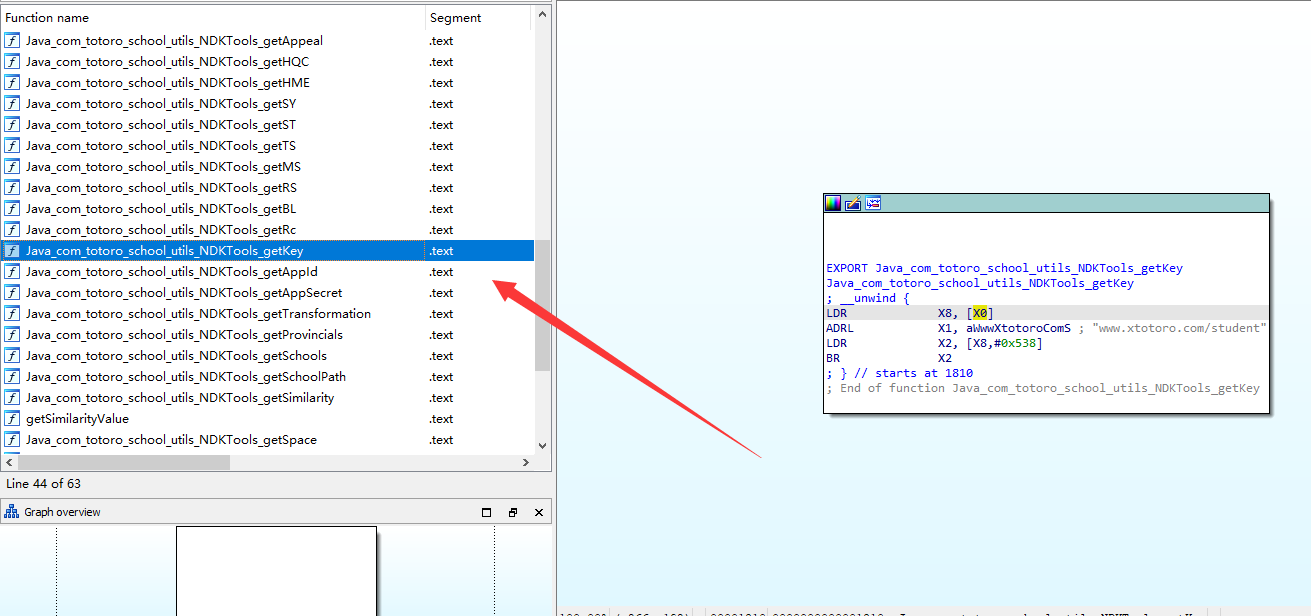
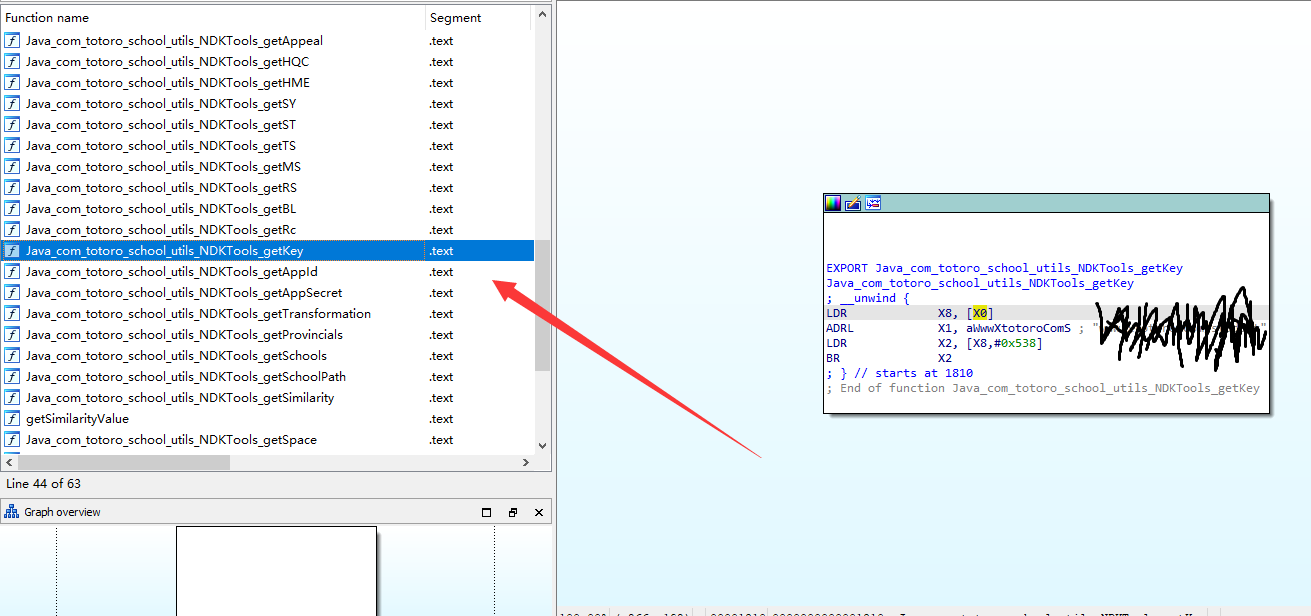
Site updated: 2021-03-28 20:40:16

Changed region(s): [[0.8238, 0.4627, 0.9764, 0.586]]

diff --git a/2021/03/24/如何优雅地破解龙猫校园/index.html b/2021/03/24/如何优雅地破解龙猫校园/index.html
@@ -171,7 +171,7 @@
 <p><img src="/images/longmaoxiaoyuan/ida.jpg" alt="/images/longmaoxiaoyuan/ida.jpg"></p>
 <p>很快找到了相关函数  F5反编译一气呵成 </p>
 <p><img src="/images/longmaoxiaoyuan/Untitled%2011.png" alt="/images/longmaoxiaoyuan/Untitled%2011.png"></p>
-<p>可见f10683a变量的值是 <a target="_blank" rel="noopener" href="http://www.xtotoro.com/student">www.xtotoro.com/student</a></p>
+<p>可见f10683a变量的值是 ***********</p>
 <p>（but这个不是密钥）同时在其他函数中得到了其AES加密的具体类型 —&gt;AES/ECB/ISO10126Padding</p>
 <p>继续回到jadx 分析可知 str2要经过m11870方法 才得到相应的密钥</p>
 <figure class="highlight java"><table><tr><td class="gutter"><pre><span class="line">1</span><br><span class="line">2</span><br><span class="line">3</span><br><span class="line">4</span><br><span class="line">5</span><br><span class="line">6</span><br><span class="line">7</span><br><span class="line">8</span><br><span class="line">9</span><br><span class="line">10</span><br><span class="line">11</span><br><span class="line">12</span><br><span class="line">13</span><br><span class="line">14</span><br><span class="line">15</span><br><span class="line">16</span><br><span class="line">17</span><br><span class="line">18</span><br><span class="line">19</span><br><span class="line">20</span><br><span class="line">21</span><br><span class="line">22</span><br><span class="line">23</span><br><span class="line">24</span><br><span class="line">25</span><br><span class="line">26</span><br><span class="line">27</span><br><span class="line">28</span><br></pre></td><td class="code"><pre><span class="line"><span class="function"><span class="keyword">public</span> <span class="keyword">static</span> String <span class="title">m11872b</span><span class="params">(String str, String str2)</span> </span>&#123;</span><br><span class="line">        <span class="keyword">try</span> &#123;</span><br><span class="line">            <span class="keyword">if</span> (str2.isEmpty()) &#123;</span><br><span class="line">                str2 = f10683a;</span><br><span class="line">            &#125;</span><br><span class="line">            SecretKeySpec secretKeySpec = <span class="keyword">new</span> SecretKeySpec(m11870a(str2).getBytes(<span class="string">&quot;ASCII&quot;</span>), <span class="string">&quot;AES&quot;</span>);</span><br><span class="line">            Cipher instance = Cipher.getInstance(NDKTools.getTransformation());</span><br><span class="line">            instance.init(<span class="number">2</span>, secretKeySpec);</span><br><span class="line">            <span class="keyword">return</span> <span class="keyword">new</span> String(instance.doFinal(Base64.decode(str, <span class="number">0</span>)), <span class="string">&quot;utf-8&quot;</span>);</span><br><span class="line">        &#125; <span class="keyword">catch</span> (Exception e) &#123;</span><br><span class="line">            e.printStackTrace();</span><br><span class="line">            <span class="keyword">return</span> <span class="keyword">null</span>;</span><br><span class="line">        &#125;</span><br><span class="line">    &#125;</span><br><span class="line"></span><br><span class="line">    <span class="comment">/* renamed from: a */</span></span><br><span class="line">    <span class="function"><span class="keyword">public</span> <span class="keyword">static</span> String <span class="title">m11870a</span><span class="params">(String str)</span> </span>&#123;</span><br><span class="line">        <span class="keyword">if</span> (str.length() &gt; <span class="number">16</span>) &#123;</span><br><span class="line">            <span class="keyword">return</span> str.substring(<span class="number">0</span>, <span class="number">16</span>);</span><br><span class="line">        &#125;</span><br><span class="line">        <span class="keyword">if</span> (str.length() &gt;= <span class="number">16</span>) &#123;</span><br><span class="line">            <span class="keyword">return</span> str;</span><br><span class="line">        &#125;</span><br><span class="line">        <span class="keyword">for</span> (<span class="keyword">int</span> length = str.length() - <span class="number">1</span>; length &lt; <span class="number">15</span>; length++) &#123;</span><br><span class="line">            str = str + <span class="string">&quot;\\000&quot;</span>;</span><br><span class="line">        &#125;</span><br><span class="line">        <span class="keyword">return</span> str;</span><br><span class="line">    &#125;</span><br></pre></td></tr></table></figure>
@@ -195,7 +195,7 @@
 <p>下显然这些在NewRunRegRequestModel类里会用到 于是查看该方法的用例</p>
 <p><strong>一眼就看到了那熟悉的函数！果断跟进！</strong></p>
 <p><img src="/images/longmaoxiaoyuan/Untitled%2016.png" alt="/images/longmaoxiaoyuan/Untitled%2016.png"></p>
-<p>这个时候会发现有两处加密 而且密钥不同  一个密钥为空（最终变为<a target="_blank" rel="noopener" href="http://www.xtotoro.com/%EF%BC%89">www.xtotoro.com/）</a> 还有个密钥为B 再通过上面sb.append有schoolid sncode还有个commonconstant.f10416d就可以确定这个是第一个参数param_add 同时 commonconstant.f10416d 也可以确定为runcode  再看第二个参数内容就应该是a密钥是b了</p>
+<p>这个时候会发现有两处加密 而且密钥不同  一个密钥为空（最终变为动态链接库中的密钥） 还有个密钥为B 再通过上面sb.append有schoolid sncode还有个commonconstant.f10416d就可以确定这个是第一个参数param_add 同时 commonconstant.f10416d 也可以确定为runcode  再看第二个参数内容就应该是a密钥是b了</p>
 <p>内容不用关注 直接看 b  可见b是一个东西解密得到的（m11872b为解密函数）分析可知解密的内容是commonconstant.f10416d 即runcode 而密钥则是从</p>
 <p>c2818.m11940b（）方法中获取  继续跟进该方法 定位到关键函数处</p>
 <figure class="highlight java"><table><tr><td class="gutter"><pre><span class="line">1</span><br><span class="line">2</span><br><span class="line">3</span><br><span class="line">4</span><br><span class="line">5</span><br><span class="line">6</span><br><span class="line">7</span><br><span class="line">8</span><br><span class="line">9</span><br><span class="line">10</span><br><span class="line">11</span><br><span class="line">12</span><br><span class="line">13</span><br><span class="line">14</span><br><span class="line">15</span><br><span class="line">16</span><br><span class="line">17</span><br><span class="line">18</span><br><span class="line">19</span><br></pre></td><td class="code"><pre><span class="line"><span class="function"><span class="keyword">public</span> <span class="keyword">static</span> Object <span class="title">m11940b</span><span class="params">(Context context, String str, Object obj)</span> </span>&#123;</span><br><span class="line">        SharedPreferences sharedPreferences = context.getSharedPreferences(<span class="string">&quot;totoro_school_share_data&quot;</span>, <span class="number">0</span>);</span><br><span class="line">        <span class="keyword">if</span> (obj <span class="keyword">instanceof</span> String) &#123;</span><br><span class="line">            <span class="keyword">return</span> sharedPreferences.getString(str, (String) obj);</span><br><span class="line">        &#125;</span><br><span class="line">        <span class="keyword">if</span> (obj <span class="keyword">instanceof</span> Integer) &#123;</span><br><span class="line">            <span class="keyword">return</span> Integer.valueOf(sharedPreferences.getInt(str, ((Integer) obj).intValue()));</span><br><span class="line">        &#125;</span><br><span class="line">        <span class="keyword">if</span> (obj <span class="keyword">instanceof</span> Boolean) &#123;</span><br><span class="line">            <span class="keyword">return</span> Boolean.valueOf(sharedPreferences.getBoolean(str, ((Boolean) obj).booleanValue()));</span><br><span class="line">        &#125;</span><br><span class="line">        <span class="keyword">if</span> (obj <span class="keyword">instanceof</span> Float) &#123;</span><br><span class="line">            <span class="keyword">return</span> Float.valueOf(sharedPreferences.getFloat(str, ((Float) obj).floatValue()));</span><br><span class="line">        &#125;</span><br><span class="line">        <span class="keyword">if</span> (obj <span class="keyword">instanceof</span> Long) &#123;</span><br><span class="line">            <span class="keyword">return</span> Long.valueOf(sharedPreferences.getLong(str, ((Long) obj).longValue()));</span><br><span class="line">        &#125;</span><br><span class="line">        <span class="keyword">return</span> <span class="keyword">null</span>;</span><br><span class="line">    &#125;</span><br></pre></td></tr></table></figure>

diff --git a/index.html b/index.html
@@ -243,7 +243,7 @@
 <p><img src="/images/longmaoxiaoyuan/ida.jpg" alt="/images/longmaoxiaoyuan/ida.jpg"></p>
 <p>很快找到了相关函数  F5反编译一气呵成 </p>
 <p><img src="/images/longmaoxiaoyuan/Untitled%2011.png" alt="/images/longmaoxiaoyuan/Untitled%2011.png"></p>
-<p>可见f10683a变量的值是 <a target="_blank" rel="noopener" href="http://www.xtotoro.com/student">www.xtotoro.com/student</a></p>
+<p>可见f10683a变量的值是 ***********</p>
 <p>（but这个不是密钥）同时在其他函数中得到了其AES加密的具体类型 —&gt;AES/ECB/ISO10126Padding</p>
 <p>继续回到jadx 分析可知 str2要经过m11870方法 才得到相应的密钥</p>
 <figure class="highlight java"><table><tr><td class="gutter"><pre><span class="line">1</span><br><span class="line">2</span><br><span class="line">3</span><br><span class="line">4</span><br><span class="line">5</span><br><span class="line">6</span><br><span class="line">7</span><br><span class="line">8</span><br><span class="line">9</span><br><span class="line">10</span><br><span class="line">11</span><br><span class="line">12</span><br><span class="line">13</span><br><span class="line">14</span><br><span class="line">15</span><br><span class="line">16</span><br><span class="line">17</span><br><span class="line">18</span><br><span class="line">19</span><br><span class="line">20</span><br><span class="line">21</span><br><span class="line">22</span><br><span class="line">23</span><br><span class="line">24</span><br><span class="line">25</span><br><span class="line">26</span><br><span class="line">27</span><br><span class="line">28</span><br></pre></td><td class="code"><pre><span class="line"><span class="function"><span class="keyword">public</span> <span class="keyword">static</span> String <span class="title">m11872b</span><span class="params">(String str, String str2)</span> </span>&#123;</span><br><span class="line">        <span class="keyword">try</span> &#123;</span><br><span class="line">            <span class="keyword">if</span> (str2.isEmpty()) &#123;</span><br><span class="line">                str2 = f10683a;</span><br><span class="line">            &#125;</span><br><span class="line">            SecretKeySpec secretKeySpec = <span class="keyword">new</span> SecretKeySpec(m11870a(str2).getBytes(<span class="string">&quot;ASCII&quot;</span>), <span class="string">&quot;AES&quot;</span>);</span><br><span class="line">            Cipher instance = Cipher.getInstance(NDKTools.getTransformation());</span><br><span class="line">            instance.init(<span class="number">2</span>, secretKeySpec);</span><br><span class="line">            <span class="keyword">return</span> <span class="keyword">new</span> String(instance.doFinal(Base64.decode(str, <span class="number">0</span>)), <span class="string">&quot;utf-8&quot;</span>);</span><br><span class="line">        &#125; <span class="keyword">catch</span> (Exception e) &#123;</span><br><span class="line">            e.printStackTrace();</span><br><span class="line">            <span class="keyword">return</span> <span class="keyword">null</span>;</span><br><span class="line">        &#125;</span><br><span class="line">    &#125;</span><br><span class="line"></span><br><span class="line">    <span class="comment">/* renamed from: a */</span></span><br><span class="line">    <span class="function"><span class="keyword">public</span> <span class="keyword">static</span> String <span class="title">m11870a</span><span class="params">(String str)</span> </span>&#123;</span><br><span class="line">        <span class="keyword">if</span> (str.length() &gt; <span class="number">16</span>) &#123;</span><br><span class="line">            <span class="keyword">return</span> str.substring(<span class="number">0</span>, <span class="number">16</span>);</span><br><span class="line">        &#125;</span><br><span class="line">        <span class="keyword">if</span> (str.length() &gt;= <span class="number">16</span>) &#123;</span><br><span class="line">            <span class="keyword">return</span> str;</span><br><span class="line">        &#125;</span><br><span class="line">        <span class="keyword">for</span> (<span class="keyword">int</span> length = str.length() - <span class="number">1</span>; length &lt; <span class="number">15</span>; length++) &#123;</span><br><span class="line">            str = str + <span class="string">&quot;\\000&quot;</span>;</span><br><span class="line">        &#125;</span><br><span class="line">        <span class="keyword">return</span> str;</span><br><span class="line">    &#125;</span><br></pre></td></tr></table></figure>
@@ -267,7 +267,7 @@
 <p>下显然这些在NewRunRegRequestModel类里会用到 于是查看该方法的用例</p>
 <p><strong>一眼就看到了那熟悉的函数！果断跟进！</strong></p>
 <p><img src="/images/longmaoxiaoyuan/Untitled%2016.png" alt="/images/longmaoxiaoyuan/Untitled%2016.png"></p>
-<p>这个时候会发现有两处加密 而且密钥不同  一个密钥为空（最终变为<a target="_blank" rel="noopener" href="http://www.xtotoro.com/%EF%BC%89">www.xtotoro.com/）</a> 还有个密钥为B 再通过上面sb.append有schoolid sncode还有个commonconstant.f10416d就可以确定这个是第一个参数param_add 同时 commonconstant.f10416d 也可以确定为runcode  再看第二个参数内容就应该是a密钥是b了</p>
+<p>这个时候会发现有两处加密 而且密钥不同  一个密钥为空（最终变为动态链接库中的密钥） 还有个密钥为B 再通过上面sb.append有schoolid sncode还有个commonconstant.f10416d就可以确定这个是第一个参数param_add 同时 commonconstant.f10416d 也可以确定为runcode  再看第二个参数内容就应该是a密钥是b了</p>
 <p>内容不用关注 直接看 b  可见b是一个东西解密得到的（m11872b为解密函数）分析可知解密的内容是commonconstant.f10416d 即runcode 而密钥则是从</p>
 <p>c2818.m11940b（）方法中获取  继续跟进该方法 定位到关键函数处</p>
 <figure class="highlight java"><table><tr><td class="gutter"><pre><span class="line">1</span><br><span class="line">2</span><br><span class="line">3</span><br><span class="line">4</span><br><span class="line">5</span><br><span class="line">6</span><br><span class="line">7</span><br><span class="line">8</span><br><span class="line">9</span><br><span class="line">10</span><br><span class="line">11</span><br><span class="line">12</span><br><span class="line">13</span><br><span class="line">14</span><br><span class="line">15</span><br><span class="line">16</span><br><span class="line">17</span><br><span class="line">18</span><br><span class="line">19</span><br></pre></td><td class="code"><pre><span class="line"><span class="function"><span class="keyword">public</span> <span class="keyword">static</span> Object <span class="title">m11940b</span><span class="params">(Context context, String str, Object obj)</span> </span>&#123;</span><br><span class="line">        SharedPreferences sharedPreferences = context.getSharedPreferences(<span class="string">&quot;totoro_school_share_data&quot;</span>, <span class="number">0</span>);</span><br><span class="line">        <span class="keyword">if</span> (obj <span class="keyword">instanceof</span> String) &#123;</span><br><span class="line">            <span class="keyword">return</span> sharedPreferences.getString(str, (String) obj);</span><br><span class="line">        &#125;</span><br><span class="line">        <span class="keyword">if</span> (obj <span class="keyword">instanceof</span> Integer) &#123;</span><br><span class="line">            <span class="keyword">return</span> Integer.valueOf(sharedPreferences.getInt(str, ((Integer) obj).intValue()));</span><br><span class="line">        &#125;</span><br><span class="line">        <span class="keyword">if</span> (obj <span class="keyword">instanceof</span> Boolean) &#123;</span><br><span class="line">            <span class="keyword">return</span> Boolean.valueOf(sharedPreferences.getBoolean(str, ((Boolean) obj).booleanValue()));</span><br><span class="line">        &#125;</span><br><span class="line">        <span class="keyword">if</span> (obj <span class="keyword">instanceof</span> Float) &#123;</span><br><span class="line">            <span class="keyword">return</span> Float.valueOf(sharedPreferences.getFloat(str, ((Float) obj).floatValue()));</span><br><span class="line">        &#125;</span><br><span class="line">        <span class="keyword">if</span> (obj <span class="keyword">instanceof</span> Long) &#123;</span><br><span class="line">            <span class="keyword">return</span> Long.valueOf(sharedPreferences.getLong(str, ((Long) obj).longValue()));</span><br><span class="line">        &#125;</span><br><span class="line">        <span class="keyword">return</span> <span class="keyword">null</span>;</span><br><span class="line">    &#125;</span><br></pre></td></tr></table></figure>
